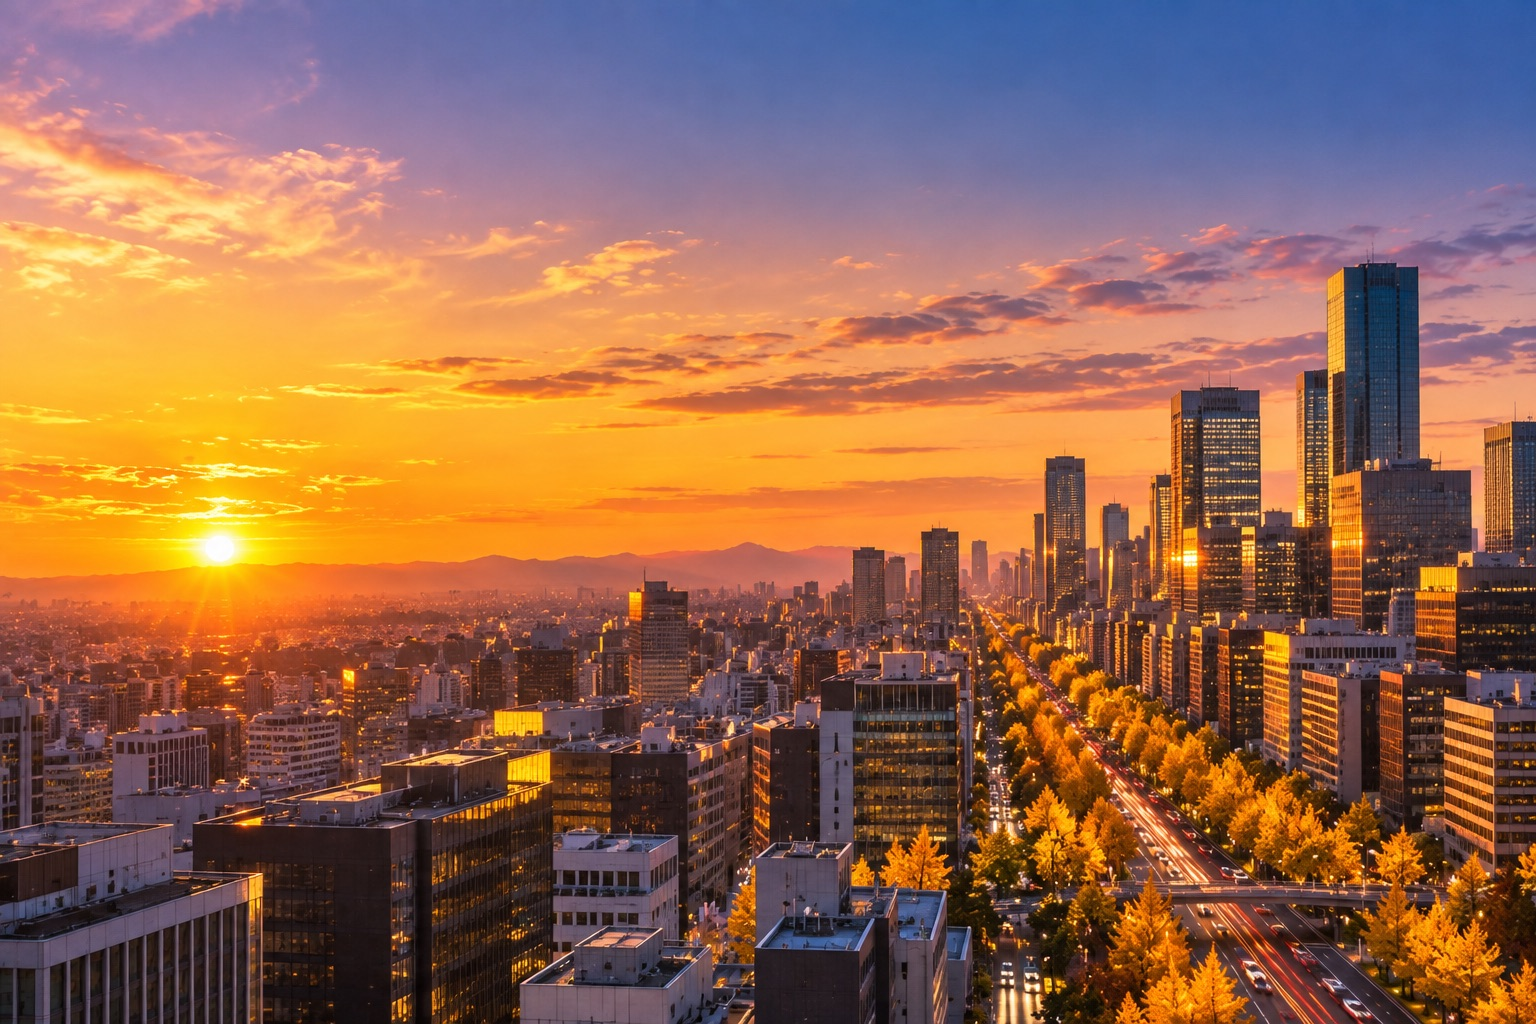
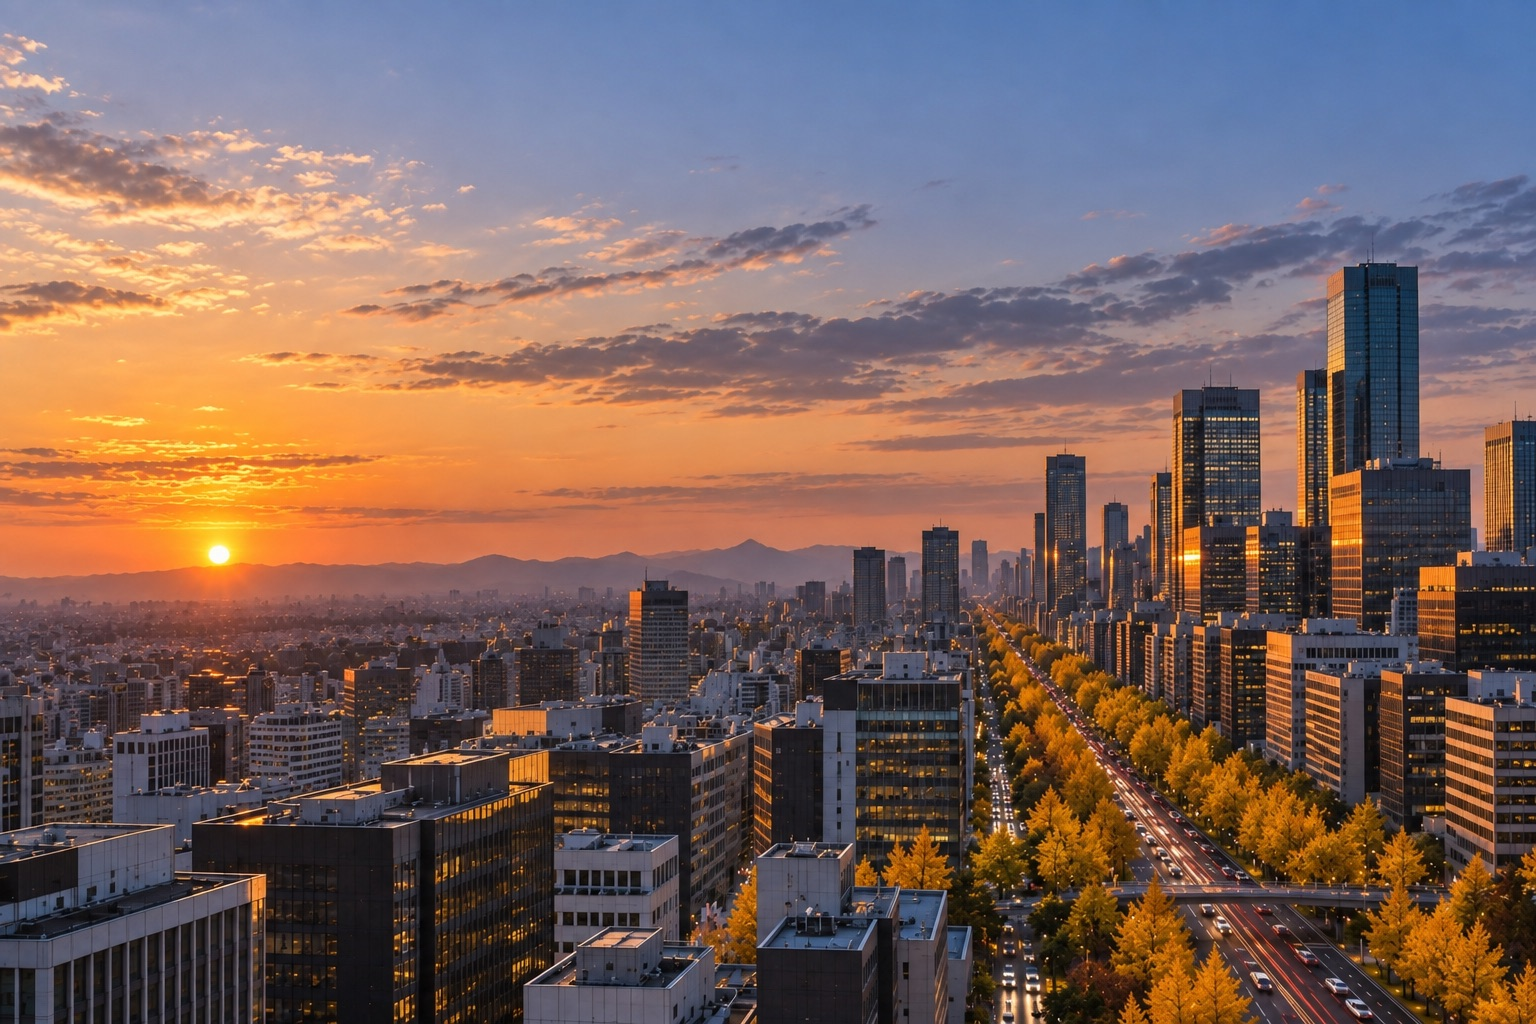
トップにA2を当てた版（/top-a2/）の四季の写真を、よりリアルなものに差し替える
構図はそのままで、彩度・雲・光・質感を実写に近づけて作り直したもの（生成AI）。

Claude-Session: https://claude.ai/code/session_01DkWFmwe3Z7eAywpshKupJG

diff --git a/top-a2/index.html b/top-a2/index.html
@@ -74,7 +74,7 @@
   <!-- 02 HERO：大きな写真＋大きなコピー＋短い説明。CTAは1つだけ。
        ★最初の演出（main.js の runLoader）は .fv h1 と .header .logo の位置を使うので、この2つは残す -->
   <section class="rf rf-a rf-v rf-top" data-fx="a" data-stay="2500" id="top">
-    <div class="rf-media"><img decoding="async" width="1536" height="1024" class="is-on" src="../images/city-spring.jpg?v=45fb20a0" alt="" onerror="this.remove()"><img decoding="async" width="1536" height="1024" class="" src="../images/city-summer.jpg?v=d95e7218" alt="" onerror="this.remove()"><img decoding="async" width="1536" height="1024" class="" src="../images/city-autumn.jpg?v=e5041138" alt="" onerror="this.remove()"><img decoding="async" width="1536" height="1024" class="" src="../images/city-winter.jpg?v=6d7c5604" alt="" onerror="this.remove()"></div>
+    <div class="rf-media"><img decoding="async" width="1536" height="1024" class="is-on" src="../images/city-spring.jpg?v=db4acc53" alt="" onerror="this.remove()"><img decoding="async" width="1536" height="1024" class="" src="../images/city-summer.jpg?v=2d0e430b" alt="" onerror="this.remove()"><img decoding="async" width="1536" height="1024" class="" src="../images/city-autumn.jpg?v=69d7eb71" alt="" onerror="this.remove()"><img decoding="async" width="1536" height="1024" class="" src="../images/city-winter.jpg?v=82ec0e7a" alt="" onerror="this.remove()"></div>
     <p class="rv-big" aria-hidden="true"><span>CHANGE</span><span>YOUR FUTURE</span></p>
     <span class="rv-sweep" aria-hidden="true"></span>
     <div class="wrap rc-fv-copy">
